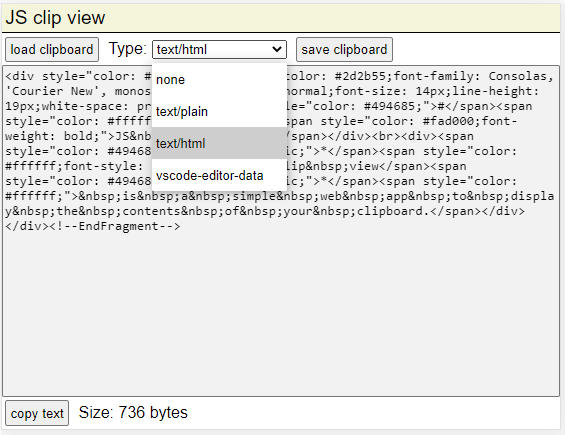
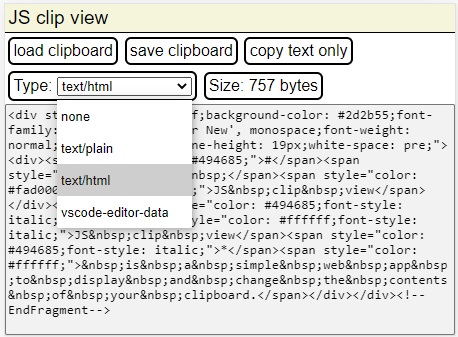
final adjustments

diff --git a/src/index.html b/src/index.html
@@ -11,30 +11,27 @@
 </head>
 <body>
     <header>JS clip view</header>
-    <!-- top controls -->
+    <!-- controls -->
     <div class="controls">
         <input type="button" value="load clipboard" id="loadBut">
-        <div>
-            Type: 
+        <input type="button" value="save clipboard" id="saveBut">
+        <input type="button" value="copy text only" id="copyTxtBut">
+        <div class="control-group">
+            <label for="typeSelect">Type: </label>
             <select id="typeSelect">
                 <option value="">none</option>
             </select>
         </div>
-        <input type="button" value="save clipboard" id="saveBut">
-    </div>
-    <!-- view area -->
-    <div class="data">
-        <textarea id="dataIn">please load your clipboard</textarea>
-        <img src="" alt="" id="imgIn">
-    </div>
-    <!-- bottom controls -->
-    <div class="controls">
-        <input type="button" value="copy text" id="copyTxtBut">
-        <div>
+        <div class="control-group">
             Size: 
             <span id="sizeDisplay">0</span>
             bytes
         </div>
+    </div>
+    <!-- view area -->
+    <div class="data">
+        <textarea id="dataIn" placeholder="please load your clipboard" cols="30" rows="10"></textarea>
+        <img src="" alt="" id="imgIn">
     </div>
 <!-- scripts -->
 <script src="script.js"></script>

diff --git a/src/style.css b/src/style.css
@@ -1,14 +1,14 @@
 :root{
     --background: #fff;
     --header-background: #f5f5dc;
-    --header-border: #000;
+    --border: #000;
     --text-color: #000;
 }
 @media (prefers-color-scheme: dark) {
     :root{
         --background: #111;
         --header-background: #222;
-        --header-border: #fff;
+        --border: #fff;
         --text-color: #eee;
     }
 }
@@ -18,7 +18,7 @@ html,body{
 }
 body{
     font-family: 'Roboto', 'Droid Sans', sans-serif;
-    min-height: 100vh;
+    min-height: calc(var(--vh, 1vh) * 100);
 
     display: flex;
     flex-direction: column;
@@ -29,11 +29,12 @@ header{
     font-size: 1.2rem;
     padding: .2rem;
     background-color: var(--header-background);
-    border-bottom: 1px solid var(--header-border);
+    border-bottom: 1px solid var(--border);
 }
 .controls{
     display: flex;
     flex-wrap: wrap;
+    align-items: center;
 }
 .controls > *{
     padding: 0.2rem;
@@ -56,4 +57,16 @@ header{
 }
 #imgIn{
     display: none;
+}
+
+input[type="button"]{
+    background: #0000;
+    border: 2px solid var(--border);
+    border-radius: 6px;
+    font: inherit;
+    color: inherit;
+}
+.control-group{
+    border: 2px solid var(--border);
+    border-radius: 6px;
 }

diff --git a/src/script.js b/src/script.js
@@ -52,3 +52,9 @@ function loadData(e) {
         console.log(blob);
     });
 }
+
+// website size stuff
+window.addEventListener('resize', ()=>sizeFun());
+function sizeFun(){
+    document.documentElement.style.setProperty('--vh', `${window.innerHeight * 0.01}px`);
+}

diff --git a/README.md b/README.md
@@ -1,9 +1,7 @@
 # JS clip view
-
-*JS clip view* is a simple web app to display and change the contents of your clipboard. It uses [Clipboard API](https://developer.mozilla.org/en-US/docs/Web/API/Clipboard_API), with is not the best choice, cause it goes throught a phraser before going to the browser. For now, it can't read everything, only [supported formats](https://w3c.github.io/clipboard-apis/#reading-from-clipboard). There is an [editor's draft](https://www.chromestatus.com/feature/5682768497344512) of Raw Clipboard Access api, but it's not implemented in any browsers yet.
+ *JS clip view* is a simple web app to display and change the contents of your clipboard. It uses [Clipboard API](https://developer.mozilla.org/en-US/docs/Web/API/Clipboard_API), with is not the best choice, cause it goes through a phraser before going to the browser. For now, it can't read everything, only [supported formats](https://w3c.github.io/clipboard-apis/#reading-from-clipboard). There is an [editor's draft](https://www.chromestatus.com/feature/5682768497344512) of Raw Clipboard Access api, but it's not implemented in any browsers yet.
 
 ## Screenshots
-
  ![basic UI](https://raw.githubusercontent.com/naipofo/js-clip-view/main/media/screenshot-light.png)
 
  ![software displaying html](https://raw.githubusercontent.com/naipofo/js-clip-view/main/media/screenshot-html.png)
